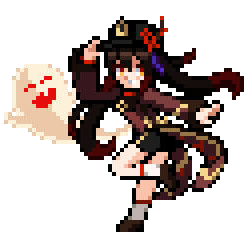
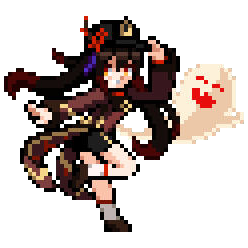
Character updated to 2-way orientation

diff --git a/frontend/ui-game.js b/frontend/ui-game.js
@@ -132,7 +132,18 @@ const uiGame = {
         characterElement.style.left = (scale * characterModel.posX) + 'px';
         characterElement.style.height = (scale * characterModel.height) + 'px';
         characterElement.style.width = (scale * characterModel.width) + 'px';
-        characterElement.dataset.direction = characterModel.orientation;
+        switch (characterModel.orientation) {
+          case 'up_right':
+          case 'right':
+          case 'down_right':
+            characterElement.dataset.direction = 'right';
+            break;
+          case 'down_left':
+          case 'left':
+          case 'up_left':
+            characterElement.dataset.direction = 'left';
+            break;
+        }
       }
       currentPlayerIds.forEach(playerId => {
         uiGame.internal.state.characterElements[playerId].remove();

diff --git a/frontend/game.css b/frontend/game.css
@@ -25,35 +25,10 @@
 
 .character_element {
   position: absolute;
-  border-radius: 50%;
-  border-bottom: 5px solid red;
-  background: orange;
-}
-
-.character_element[data-direction="up"] {
-  transform: rotate(180deg);
-}
-
-.character_element[data-direction="up_right"] {
-  transform: rotate(225deg);
-}
-
-.character_element[data-direction="right"] {
-  transform: rotate(270deg);
-}
-
-.character_element[data-direction="down_right"] {
-  transform: rotate(315deg);
-}
-
-.character_element[data-direction="down_left"] {
-  transform: rotate(45deg);
+  background: url('assets/character_hutao.png') no-repeat;
+  background-size: 100%;
 }
 
 .character_element[data-direction="left"] {
-  transform: rotate(90deg);
-}
-
-.character_element[data-direction="up_left"] {
-  transform: rotate(135deg);
+  transform: scaleX(-1);
 }
